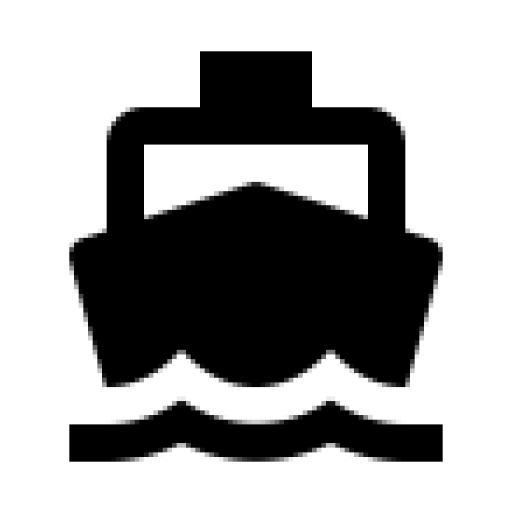
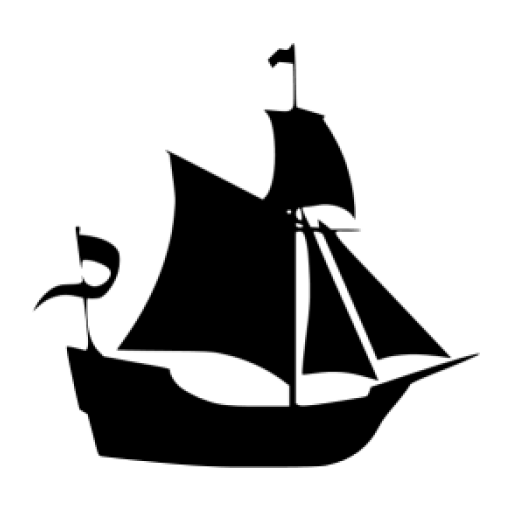
Implemented use of fragments for switching tabs.
Created a base layout for the status tab; added a new icon for the tab as well.

Changed region(s): [[0.0625, 0.0938, 0.9375, 0.9375]]

diff --git a/app/src/main/java/wybren_erik/hanzespel/activiy/MainActivity.java b/app/src/main/java/wybren_erik/hanzespel/activiy/MainActivity.java
@@ -3,6 +3,8 @@ package wybren_erik.hanzespel.activiy;
 import android.os.Bundle;
 import android.support.annotation.NonNull;
 import android.support.design.widget.BottomNavigationView;
+import android.support.v4.app.FragmentActivity;
+import android.support.v4.app.FragmentTransaction;
 import android.support.v7.app.AppCompatActivity;
 import android.view.MenuItem;
 import android.widget.TextView;
@@ -16,30 +18,30 @@ public class MainActivity extends AppCompatActivity {
 
     private TextView mTextMessage;
     private RoadMap cityMap;
+    private StatusFragment statusFragment;
+    private EmptyFragment mapFragment;
+    private EmptyFragment handelFragment;
 
     private BottomNavigationView.OnNavigationItemSelectedListener mOnNavigationItemSelectedListener
             = new BottomNavigationView.OnNavigationItemSelectedListener() {
 
         @Override
         public boolean onNavigationItemSelected(@NonNull MenuItem item) {
+            FragmentTransaction transaction = getSupportFragmentManager().beginTransaction();
             switch (item.getItemId()) {
                 case R.id.navigation_status:
-                    mTextMessage.setText(R.string.status_string);
-                    return true;
+                    transaction.replace(R.id.main_fragment, statusFragment);
+                    break;
                 case R.id.navigation_handel:
-                    mTextMessage.setText(R.string.handel_string);
-                    return true;
+                    transaction.replace(R.id.main_fragment, handelFragment);
+                    break;
                 case R.id.navigation_map:
-                    String allCities = "";
-                    for(City c : cityMap.getCities()) {
-                        allCities += c.getName() + ", ";
-                    }
-                    mTextMessage.setText(allCities);
-                    return true;
+                    transaction.replace(R.id.main_fragment, mapFragment);
+                    break;
             }
-            return false;
+            transaction.commit();
+            return true;
         }
-
     };
 
     @Override
@@ -48,9 +50,16 @@ public class MainActivity extends AppCompatActivity {
         setContentView(R.layout.activity_main);
         initMap();
 
-        mTextMessage = (TextView) findViewById(R.id.message);
         BottomNavigationView navigation = (BottomNavigationView) findViewById(R.id.navigation);
         navigation.setOnNavigationItemSelectedListener(mOnNavigationItemSelectedListener);
+        FragmentTransaction transaction = getSupportFragmentManager().beginTransaction();
+
+        statusFragment = new StatusFragment();
+        handelFragment = new EmptyFragment();
+        mapFragment = new EmptyFragment();
+
+        transaction.add(R.id.main_fragment, statusFragment);
+        transaction.commit();
     }
 
     @SuppressWarnings("unchecked")

diff --git a/app/src/main/java/wybren_erik/hanzespel/activiy/EmptyFragment.java b/app/src/main/java/wybren_erik/hanzespel/activiy/EmptyFragment.java
@@ -1,0 +1,19 @@
+package wybren_erik.hanzespel.activiy;
+
+import android.os.Bundle;
+import android.support.annotation.Nullable;
+import android.support.v4.app.Fragment;
+import android.view.LayoutInflater;
+import android.view.View;
+import android.view.ViewGroup;
+
+import wybren_erik.hanzespel.R;
+
+// TEMPORARY
+public class EmptyFragment extends Fragment {
+    @Nullable
+    @Override
+    public View onCreateView(LayoutInflater inflater, @Nullable ViewGroup container, @Nullable Bundle savedInstanceState) {
+        return inflater.inflate(R.layout.empty_fragment, container, false);
+    }
+}

diff --git a/app/src/main/java/wybren_erik/hanzespel/activiy/StatusFragment.java b/app/src/main/java/wybren_erik/hanzespel/activiy/StatusFragment.java
@@ -1,0 +1,19 @@
+package wybren_erik.hanzespel.activiy;
+
+import android.os.Bundle;
+import android.support.annotation.Nullable;
+import android.support.v4.app.Fragment;
+import android.view.LayoutInflater;
+import android.view.View;
+import android.view.ViewGroup;
+
+import wybren_erik.hanzespel.R;
+
+public class StatusFragment extends Fragment {
+
+    @Nullable
+    @Override
+    public View onCreateView(LayoutInflater inflater, @Nullable ViewGroup container, @Nullable Bundle savedInstanceState) {
+        return inflater.inflate(R.layout.status_fragment, container, false);
+    }
+}
